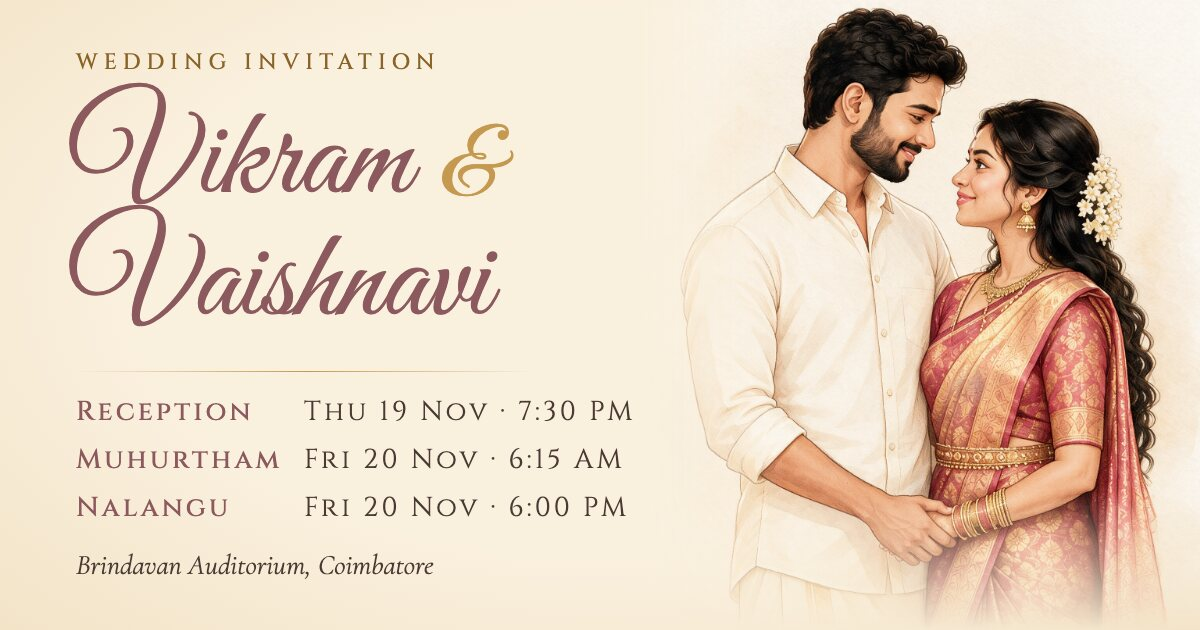
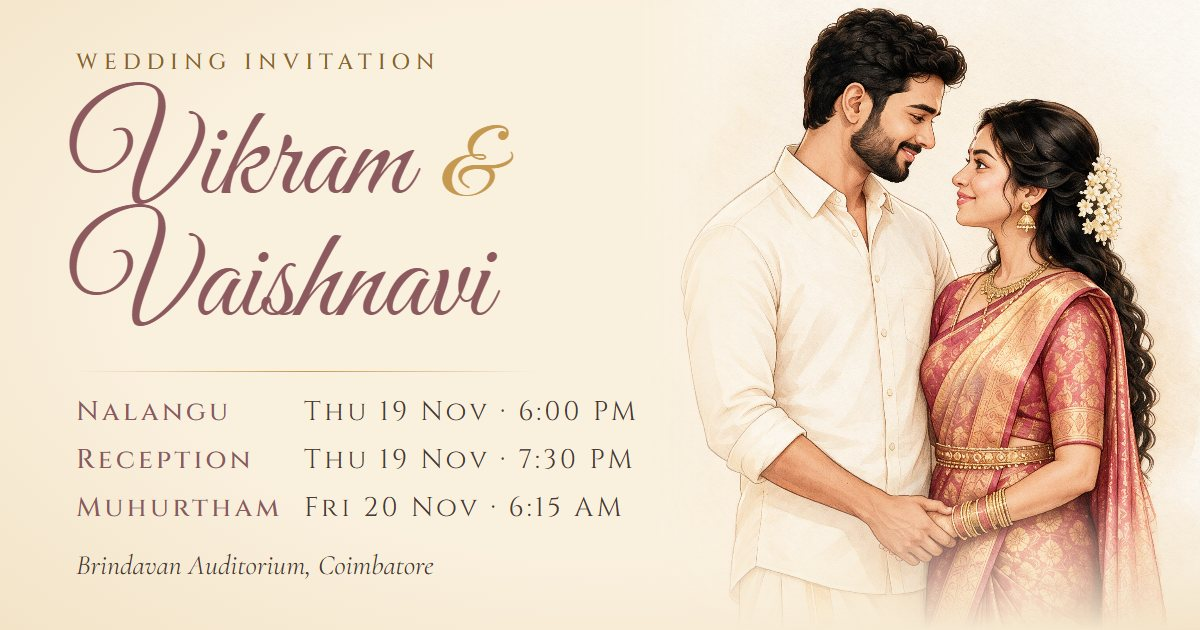
time updated

diff --git a/src/gate.js b/src/gate.js
@@ -1,110 +1,132 @@
-import { animate, createTimer, utils } from 'animejs'
+import { animate, createTimer, utils } from "animejs";
+import { release } from "./hero.js";
 
 // The clip's last ~0.4 s is flat ivory mist. Handing over there, not on `ended`, lets the hero
 // surface out of the mist instead of after it.
-const MIST = 0.45
-const RELEASE = 360
-const SPARKS = 14
+const MIST = 0.45;
+const RELEASE = 360;
+const SPARKS = 14;
 // The seal's resting drop-shadow from the stylesheet, plus a gold glow, in a form both ends of the
 // flare share so the filter interpolates.
-const SHADOW = (glow, alpha) => `drop-shadow(0px 4px 6px rgb(42 33 28 / 0.5)) drop-shadow(0px 0px ${glow}px rgb(241 213 149 / ${alpha}))`
+const SHADOW = (glow, alpha) =>
+  `drop-shadow(0px 4px 6px rgb(42 33 28 / 0.5)) drop-shadow(0px 0px ${glow}px rgb(241 213 149 / ${alpha}))`;
 
 // The doors swing open in slow motion: the 3 s clip plays over about 5 s.
-const DOOR_SPEED = 0.6
+const DOOR_SPEED = 0.6;
 
 function playIntoMist(video) {
-  video.playbackRate = DOOR_SPEED
+  video.playbackRate = DOOR_SPEED;
   return new Promise((resolve) => {
     const onTime = () => {
-      if (video.duration - video.currentTime > MIST) return
-      video.removeEventListener('timeupdate', onTime)
-      resolve()
-    }
-    video.addEventListener('timeupdate', onTime)
-    video.addEventListener('ended', resolve, { once: true })
-    video.play().catch(resolve)
-  })
+      if (video.duration - video.currentTime > MIST) return;
+      video.removeEventListener("timeupdate", onTime);
+      resolve();
+    };
+    video.addEventListener("timeupdate", onTime);
+    video.addEventListener("ended", resolve, { once: true });
+    video.play().catch(resolve);
+  });
 }
 
 // The seal presses in like a stamp, flares gold and lifts away whole, while rings of light and a
 // burst of sparks spread out from under it. Resolves as it lifts, so the doors open behind it.
 function releaseSeal(button) {
-  animate(button.querySelector('.gate-hint'), { opacity: 0, duration: 200, ease: 'out(2)' })
-  animate(button.querySelector('.seal'), {
+  animate(button.querySelector(".gate-hint"), {
+    opacity: 0,
+    duration: 200,
+    ease: "out(2)",
+  });
+  animate(button.querySelector(".seal"), {
     scale: [
-      { to: 0.9, duration: 140, ease: 'out(2)' },
-      { to: 1.08, duration: RELEASE - 140, ease: 'out(3)' },
-      { to: 1.6, duration: 800, ease: 'in(2)' },
+      { to: 0.9, duration: 140, ease: "out(2)" },
+      { to: 1.08, duration: RELEASE - 140, ease: "out(3)" },
+      { to: 1.6, duration: 800, ease: "in(2)" },
     ],
-    filter: { from: SHADOW(2, 0.2), to: SHADOW(28, 1), duration: RELEASE, ease: 'out(2)' },
-    opacity: { to: 0, delay: RELEASE, duration: 800, ease: 'in(2)' },
-  })
+    filter: {
+      from: SHADOW(2, 0.2),
+      to: SHADOW(28, 1),
+      duration: RELEASE,
+      ease: "out(2)",
+    },
+    opacity: { to: 0, delay: RELEASE, duration: 800, ease: "in(2)" },
+  });
 
   const burst = (className, count, params) => {
     for (let i = 0; i < count; i++) {
-      const el = document.createElement('span')
-      el.className = className
-      button.append(el)
-      animate(el, params(i))
+      const el = document.createElement("span");
+      el.className = className;
+      button.append(el);
+      animate(el, params(i));
     }
-  }
-  burst('seal-ring', 2, (i) => ({
+  };
+  burst("seal-ring", 2, (i) => ({
     scale: [0.8, 3.4],
     opacity: [0.9, 0],
     delay: RELEASE - 120 + i * 220,
     duration: 1200,
-    ease: 'out(3)',
-  }))
-  burst('seal-spark', SPARKS, (i) => {
-    const angle = (i / SPARKS) * Math.PI * 2 + utils.random(-0.2, 0.2, 2)
-    const distance = utils.random(80, 150)
+    ease: "out(3)",
+  }));
+  burst("seal-spark", SPARKS, (i) => {
+    const angle = (i / SPARKS) * Math.PI * 2 + utils.random(-0.2, 0.2, 2);
+    const distance = utils.random(80, 150);
     return {
       translateX: [0, Math.cos(angle) * distance],
       translateY: [0, Math.sin(angle) * distance],
       scale: [1.4, 0],
       // Holds its light for most of the flight, then goes out.
-      opacity: { from: 1, to: 0, ease: 'in(3)' },
+      opacity: { from: 1, to: 0, ease: "in(3)" },
       delay: RELEASE - 80 + utils.random(0, 100),
       duration: utils.random(800, 1100),
-      ease: 'out(3)',
-    }
-  })
-  return createTimer({ duration: RELEASE })
+      ease: "out(3)",
+    };
+  });
+  return createTimer({ duration: RELEASE });
 }
 
 export function setupGate(gate, { reduceMotion, onOpen, onOpened }) {
-  const button = gate.querySelector('#gate-open')
-  const video = gate.querySelector('.gate-video')
+  const button = gate.querySelector("#gate-open");
+  const video = gate.querySelector(".gate-video");
   // Idle life before the tap: the door breathes in and out, and the seal glows.
   const idle = reduceMotion
     ? []
     : [
-        animate(video, { scale: [1, 1.03], duration: 6000, ease: 'inOut(2)', loop: true, alternate: true }),
-        animate(button.querySelector('.seal'), {
-          filter: [SHADOW(2, 0.2), SHADOW(16, 0.85)],
-          duration: 1600,
-          ease: 'inOut(2)',
+        animate(video, {
+          scale: [1, 1.03],
+          duration: 6000,
+          ease: "inOut(2)",
           loop: true,
           alternate: true,
         }),
-      ]
+        animate(button.querySelector(".seal"), {
+          filter: [SHADOW(2, 0.2), SHADOW(16, 0.85)],
+          duration: 1600,
+          ease: "inOut(2)",
+          loop: true,
+          alternate: true,
+        }),
+      ];
 
   button.addEventListener(
-    'click',
+    "click",
     async () => {
-      button.disabled = true
-      onOpen()
+      button.disabled = true;
+      onOpen();
       if (!reduceMotion) {
         // Paused, not reverted, so the door clip starts from the zoom it has reached.
-        for (const anim of idle) anim.pause()
-        await releaseSeal(button)
-        await playIntoMist(video)
+        for (const anim of idle) anim.pause();
+        await releaseSeal(button);
+        await playIntoMist(video);
       }
-      onOpened()
-      await animate(gate, { opacity: 0, duration: reduceMotion ? 600 : 1000, ease: 'inOut(2)' })
-      gate.remove()
-      document.body.classList.remove('is-gated')
+      onOpened();
+      await animate(gate, {
+        opacity: 0,
+        duration: reduceMotion ? 600 : 1000,
+        ease: "inOut(2)",
+      });
+      gate.remove();
+      release(video);
+      document.body.classList.remove("is-gated");
     },
     { once: true },
-  )
+  );
 }

diff --git a/src/hero.js b/src/hero.js
@@ -6,12 +6,28 @@ const FADE = 1.5
 const SHOWER_START = 2.5
 // The petals fall in slight slow motion.
 const SHOWER_SPEED = 0.8
+// A video can refuse to play: iOS caps how many play at once across all of Safari's tabs, so a
+// guest who has opened the link many times can hit it, and Low Power Mode blocks them outright.
+// The page then moves on regardless: B fades in once A would have ended, and the tour starts once
+// the shower would have come down. Both in seconds from the reveal.
+const A_STALL = 7
+const SHOWER_STALL = 13
+
+// Frees a finished video's decoder, of which iOS has few; its poster stands in.
+export function release(video) {
+  video.pause()
+  video.removeAttribute('src')
+  video.load()
+}
 
 // A plays once and holds its last frame. B (the flower shower) fades in over A's last 1.5 s while
 // paused on its clear-sky frame, then plays and loops, so the first petals are seen falling from
-// the top. If B is not buffered by then, A holds until it is. `onShowerFalling` runs once, as B
-// first wraps round: the toss has come down and its petals are falling past the couple.
+// the top, and A, hidden beneath it, is released. If B is not buffered by then, A holds until it
+// is. `onShowerFalling` runs once, as B first wraps round: the toss has come down and its petals
+// are falling past the couple. Returns whether B has been started, for pausing it off screen.
 function crossfadeAfterFirstPass(a, b, onShowerFalling) {
+  let started = false
+  setTimeout(onShowerFalling, SHOWER_STALL * 1000)
   b.preload = 'auto'
   b.load()
 
@@ -35,6 +51,7 @@ function crossfadeAfterFirstPass(a, b, onShowerFalling) {
     }
     a.addEventListener('timeupdate', onTime)
     a.addEventListener('ended', resolve, { once: true })
+    setTimeout(resolve, A_STALL * 1000)
   })
 
   let last = SHOWER_START
@@ -51,8 +68,10 @@ function crossfadeAfterFirstPass(a, b, onShowerFalling) {
   Promise.all([ready, nearEnd]).then(async () => {
     await animate(b, { opacity: 1, duration: FADE * 1000, ease: 'inOut(2)' })
     b.playbackRate = SHOWER_SPEED
-    b.play().catch(() => {})
+    started = true
+    b.play().then(() => release(a), () => {})
   })
+  return () => started
 }
 
 // The hero waits hidden under the gate, then surfaces out of the gate video's closing mist.
@@ -70,7 +89,19 @@ export function setupHero(hero, { reduceMotion, onShowerFalling }) {
       return
     }
     a.play().catch(() => {})
-    crossfadeAfterFirstPass(a, b, onShowerFalling)
+    const showering = crossfadeAfterFirstPass(a, b, onShowerFalling)
+    // The shower plays only while the hero is on screen and the tab is in front.
+    let inView = true
+    const follow = () => {
+      if (!showering()) return
+      if (inView && !document.hidden) b.play().catch(() => {})
+      else b.pause()
+    }
+    new IntersectionObserver(([entry]) => {
+      inView = entry.isIntersecting
+      follow()
+    }).observe(hero)
+    document.addEventListener('visibilitychange', follow)
     animate(media, {
       opacity: 1,
       scale: [1.06, 1],

diff --git a/index.html b/index.html
@@ -11,7 +11,7 @@
     <meta property="og:url" content="https://vikram-vaishnavi-invite.vercel.app/" />
     <meta property="og:title" content="Vikram &amp; Vaishnavi · Wedding Invitation" />
     <meta property="og:description" content="Nalangu Thu 19 Nov, 6:00 PM · Reception Thu 19 Nov, 7:30 PM · Muhurtham Fri 20 Nov, 6:15 AM · Brindavan Auditorium, Coimbatore" />
-    <meta property="og:image" content="https://vikram-vaishnavi-invite.vercel.app/og.jpg" />
+    <meta property="og:image" content="https://vikram-vaishnavi-invite.vercel.app/og.jpg?v=2" />
     <meta property="og:image:type" content="image/jpeg" />
     <meta property="og:image:width" content="1200" />
     <meta property="og:image:height" content="630" />

diff --git a/docs/og/card.html b/docs/og/card.html
@@ -114,9 +114,9 @@
       <h1 class="names">Vikram <span class="amp">&amp;</span><br />Vaishnavi</h1>
       <div class="rule"></div>
       <ul class="events">
+        <li><span class="ev">Nalangu</span><span>Thu 19 Nov · 6:00 PM</span></li>
         <li><span class="ev">Reception</span><span>Thu 19 Nov · 7:30 PM</span></li>
         <li><span class="ev">Muhurtham</span><span>Fri 20 Nov · 6:15 AM</span></li>
-        <li><span class="ev">Nalangu</span><span>Fri 20 Nov · 6:00 PM</span></li>
       </ul>
       <p class="venue">Brindavan Auditorium, Coimbatore</p>
     </div>
